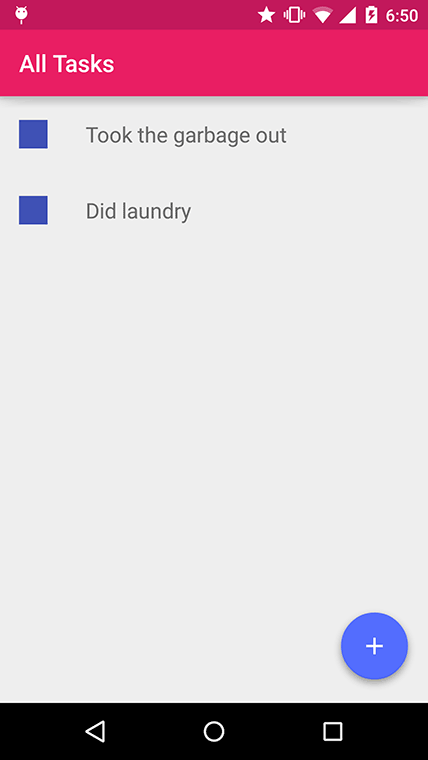
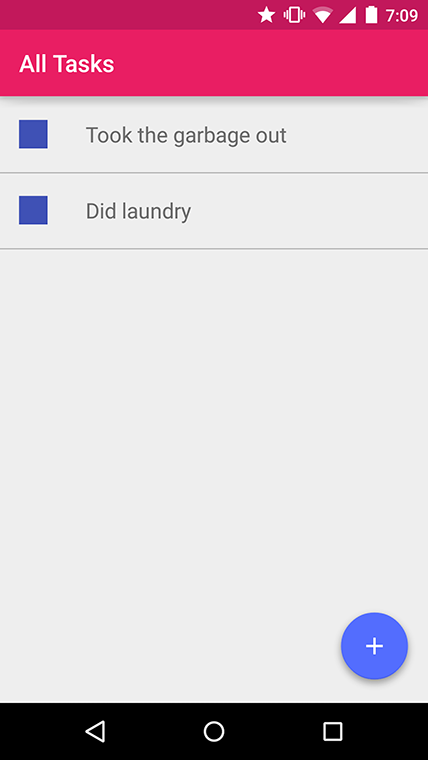
Add dividers to the RecyclerView

Changed region(s): [[0.8505, 0.0, 0.972, 0.0303], [0.0304, 0.0, 0.0607, 0.0303]]

diff --git a/app/src/main/java/com/kasra/lifetracker/utils/DividerItemDecoration.java b/app/src/main/java/com/kasra/lifetracker/utils/DividerItemDecoration.java
@@ -1,0 +1,39 @@
+package com.kasra.lifetracker.utils;
+
+import android.graphics.Canvas;
+import android.graphics.drawable.ColorDrawable;
+import android.graphics.drawable.Drawable;
+import android.support.v7.widget.RecyclerView;
+import android.view.View;
+
+/**
+ * Why the hell doesn't RecyclerView support dividers natively?
+ */
+public class DividerItemDecoration extends RecyclerView.ItemDecoration {
+    private Drawable mDivider;
+    private int mHeight;
+
+    public DividerItemDecoration(int color, int height) {
+        mDivider = new ColorDrawable(color);
+        mHeight = height;
+    }
+
+    @Override
+    public void onDraw(Canvas c, RecyclerView parent, RecyclerView.State state) {
+        int left = parent.getPaddingLeft();
+        int right = parent.getWidth() - parent.getPaddingRight();
+
+        int childCount = parent.getChildCount();
+        for (int i = 0; i < childCount; i++) {
+            View child = parent.getChildAt(i);
+
+            RecyclerView.LayoutParams params = (RecyclerView.LayoutParams) child.getLayoutParams();
+
+            int top = child.getBottom() + params.bottomMargin;
+            int bottom = top + mHeight;
+
+            mDivider.setBounds(left, top, right, bottom);
+            mDivider.draw(c);
+        }
+    }
+}

diff --git a/app/src/main/java/com/kasra/lifetracker/widget/LTRecyclerView.java b/app/src/main/java/com/kasra/lifetracker/widget/LTRecyclerView.java
@@ -3,24 +3,28 @@ package com.kasra.lifetracker.widget;
 import android.content.Context;
 import android.support.v7.widget.RecyclerView;
 import android.util.AttributeSet;
-import android.view.View;
 
+import com.kasra.lifetracker.R;
+import com.kasra.lifetracker.utils.DividerItemDecoration;
 import com.kasra.lifetracker.utils.RecyclerItemClickListener;
 
 /**
- * Some simple extensions ontop of Recyclerview
+ * Some simple extensions ontop of RecyclerView
  */
 public class LTRecyclerView extends RecyclerView {
     public LTRecyclerView(Context context) {
-        super(context);
+        super(context, null, 0);
     }
 
     public LTRecyclerView(Context context, AttributeSet attrs) {
-        super(context, attrs);
+        this(context, attrs, 0);
     }
 
     public LTRecyclerView(Context context, AttributeSet attrs, int defStyle) {
         super(context, attrs, defStyle);
+
+        addItemDecoration(new DividerItemDecoration(context.getResources().getColor(R.color.divider),
+                context.getResources().getDimensionPixelSize(R.dimen.divider_height)));
     }
 
     public void setOnItemClickListener(RecyclerItemClickListener.OnItemClickListener onItemClickListener) {
